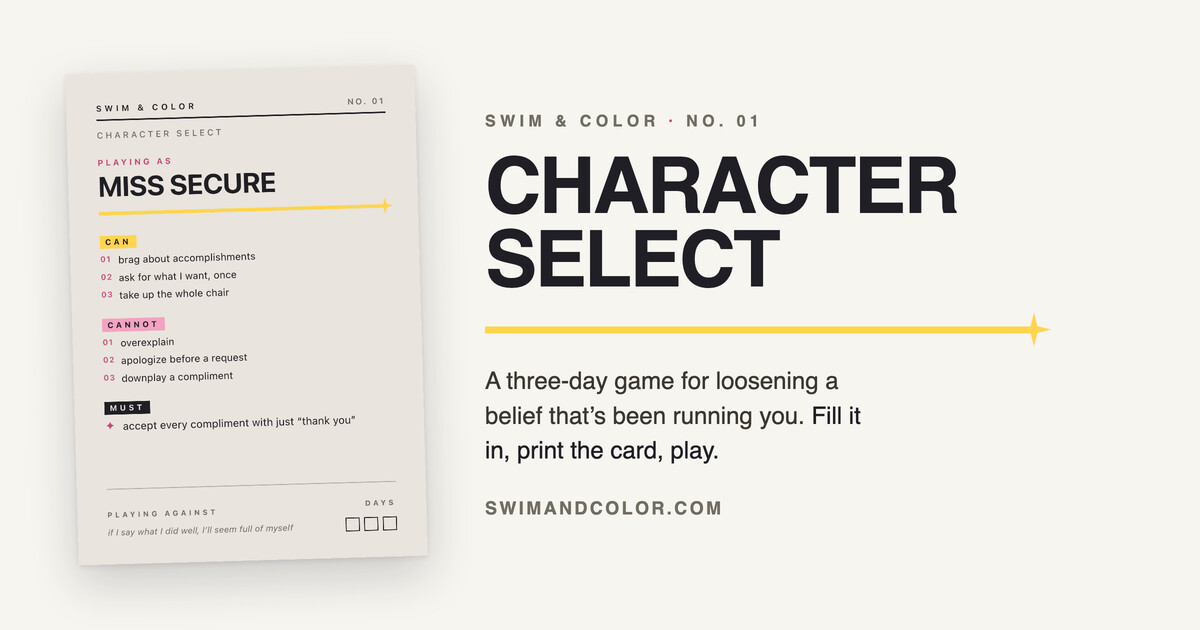
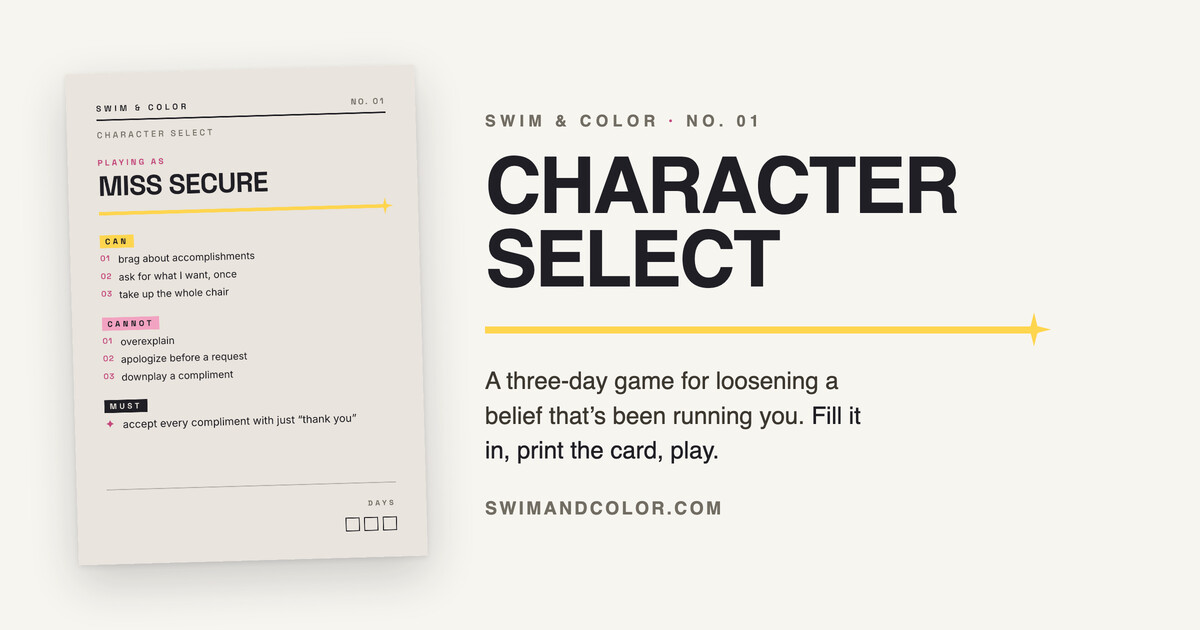
Drop "Playing against" from the pocket card
The belief no longer prints. It stays in the form as Step 01 and
still saves, it just isn't on the card you carry around.

Footer is now right-aligned since the day boxes are all that's left
in it, and the embed image is re-rendered to match.

Copy: reworked the intro and the Substack link.

diff --git a/character-select/index.html b/character-select/index.html
@@ -44,10 +44,10 @@
 
   <section class="intro">
     <p>A three&#8209;day game for loosening a belief that&rsquo;s been running you. Pick the belief, build a character who wouldn&rsquo;t hold it, then give them three things they <em>can</em> do, three they <em>cannot</em>, and one they <em>must</em>.</p>
-    <p>Fill this in and you&rsquo;ll get a pocket card to print and play from &mdash; or take the blank workbook and write it out by hand.</p>
+    <p>Fill this in and you&rsquo;ll get a pocket card to print and play from. Or, if you&rsquo;re more kinetic (like me), take the blank workbook and write it out by hand.</p>
     <div class="intro-actions">
       <a class="pill" href="character-select.pdf" download>Download the blank workbook (PDF)</a>
-      <a class="quiet" href="https://swimandcolor.substack.com" target="_blank" rel="noopener">Read the whole game on Substack &rarr;</a>
+      <a class="quiet" href="https://swimandcolor.substack.com" target="_blank" rel="noopener">Read more about the game on Substack &rarr;</a>
     </div>
   </section>
 
@@ -151,10 +151,6 @@
         </div>
 
         <div class="card-foot">
-          <div class="card-belief" id="c-belief-wrap">
-            <p class="card-label sm">Playing against</p>
-            <p class="card-belief-text" id="c-belief">&mdash;</p>
-          </div>
           <div class="card-days">
             <span class="card-label sm">Days</span>
             <span class="boxes" id="c-days"></span>

diff --git a/character-select/play.js b/character-select/play.js
@@ -13,7 +13,6 @@
     can:        document.getElementById('c-can'),
     cannot:     document.getElementById('c-cannot'),
     must:       document.getElementById('c-must'),
-    belief:     document.getElementById('c-belief'),
     days:       document.getElementById('c-days')
   };
 
@@ -97,8 +96,7 @@
     setText(card.name, val('character').toUpperCase(), 'Your character');
     fillList(card.can,    [val('can1'), val('can2'), val('can3')]);
     fillList(card.cannot, [val('cannot1'), val('cannot2'), val('cannot3')]);
-    setText(card.must,   val('must'),   '—');
-    setText(card.belief, val('belief'), '—');
+    setText(card.must, val('must'), '—');
 
     card.days.innerHTML = '';
     for (var i = 0; i < chosenDays(); i++) {

diff --git a/character-select/play.css b/character-select/play.css
@@ -465,22 +465,10 @@ input[type=text]::placeholder,textarea::placeholder{color:#B3ADA3}
   border-top:.35mm solid rgba(32,31,37,.28);
   padding-top:2.6mm;
   display:flex;
-  justify-content:space-between;
+  justify-content:flex-end;
   align-items:flex-end;
   gap:4mm;
 }
-
-.card-belief{flex:1;min-width:0}
-
-.card-belief-text{
-  font-family:var(--sans);
-  font-size:2.6mm;
-  font-style:italic;
-  line-height:1.3;
-  color:var(--muted);
-  margin:.8mm 0 0;
-}
-.card-belief-text.empty{color:#B3ADA3}
 
 .card-days{text-align:right;flex-shrink:0}
 
